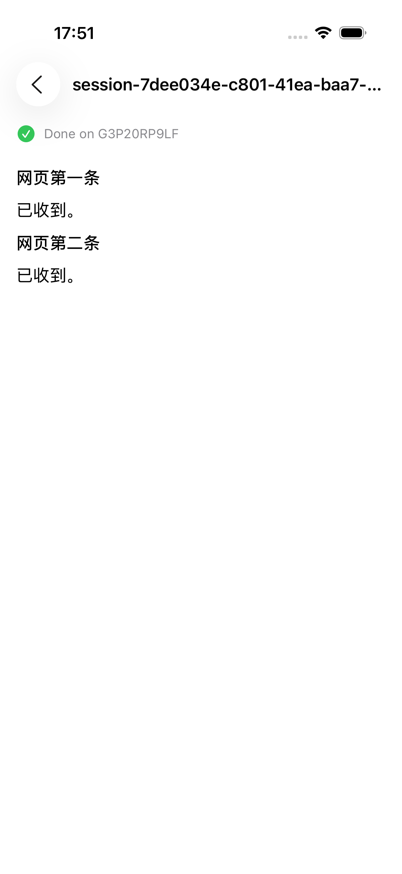
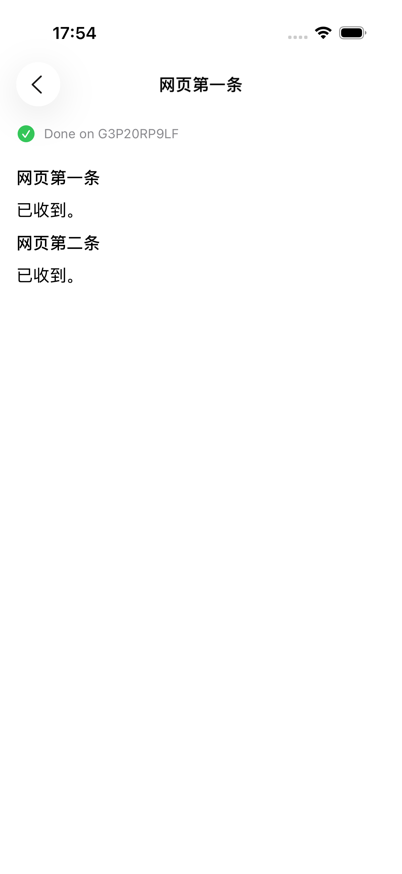
Find the Web session by its first message on the phone

Changed region(s): [[0.3582, 0.0618, 0.8955, 0.1236], [0.1791, 0.0927, 0.3284, 0.1236], [0.1194, 0.0309, 0.2388, 0.0618]]

diff --git a/ios/dsh-mobileUITests/S13SessionVisibilityUITests.swift b/ios/dsh-mobileUITests/S13SessionVisibilityUITests.swift
@@ -12,9 +12,10 @@ final class S13SessionVisibilityUITests: XCTestCase {
         app.launch()
 
         let rows = app.buttons.matching(identifier: "tasklist.row")
-        XCTAssertTrue(rows.firstMatch.waitForExistence(timeout: 25), app.debugDescription)
+        let row = rows.matching(NSPredicate(format: "label CONTAINS %@", "网页第一条")).firstMatch
+        XCTAssertTrue(row.waitForExistence(timeout: 25), app.debugDescription)
         XCTAssertEqual(rows.count, 1)
-        rows.firstMatch.tap()
+        row.tap()
         let messages = app.descendants(matching: .any).matching(NSPredicate(
             format: "identifier IN %@", ["session.message.user", "session.message.assistant"]))
         let reply = "已收到。"
